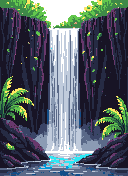
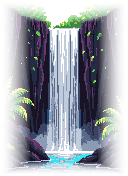
Vier Sachen aufgeräumt, die beim Durchschauen der Bilder auffielen
1. Deko im Vordergrund verschluckte die Helden. Baumstämme, Farne und
   Monstera-Blätter liegen absichtlich VOR den Figuren – wenn Jonas
   dahinterläuft, war er aber komplett weg. Solche Deko wird jetzt weich
   halb durchsichtig, solange jemand dahintersteht.

2. Der Schwarzwaldhof steckte bis zu den Fenstern im Boden und die Kinder
   liefen über sein Dach. Kulissen wandern langsamer als der Boden, also
   schieben sie sich über jede Bodenhöhe – ihr Fußpunkt muss darum über der
   höchsten Bodenkante liegen. standY 236 → 190.

3. Die Wasserfall-Kulisse (Cascatinha) hing als hartes dunkles Rechteck im
   Wald – ihr Bild hatte gar keinen freigestellten Rand. Neues Werkzeug
   tools/rand-weich.mjs blendet die Ränder weich aus.

4. Die Tastenzeile unten blendet nach 15 Sekunden weg, statt für immer im
   Gras zu liegen.

Claude-Session: https://claude.ai/code/session_015V1NJyATdJKNAqRRoQ2KE5

diff --git a/src/scenes/GameScene.js b/src/scenes/GameScene.js
@@ -242,6 +242,7 @@ export default class GameScene extends Phaser.Scene {
     // Deko: nur Bilder, keine Physik. Hinter den Figuren (Tiefe 2) oder davor (Tiefe 15).
     // haengend = Ankerpunkt oben; glow = pulsiert leicht; anim = Spritesheet-Animation
     this.glowing = []
+    this.vorneDeko = []                 // Deko VOR den Figuren – wird durchsichtig, wenn jemand dahintersteht
     for (const o of objects.filter((o) => o.type === 'deko')) {
       const key = 'deko-' + o.name
       if (!this.textures.exists(key)) { console.warn('Unbekannte Deko:', o.name); continue }
@@ -250,7 +251,8 @@ export default class GameScene extends Phaser.Scene {
       const img = d.anim ? this.add.sprite(o.x, o.y, key).play(key) : this.add.image(o.x, o.y, key)
       img.setOrigin(0.5, d.haengend ? 0 : 1).setDepth(p.vorne ? 15 : 2).setFlipX(!!p.spiegeln)
       if (!d.haengend) { img.y += 2; if (img.width >= 20) this.addShadow(img, Math.min(30, img.width * 0.8), false).setPosition(img.x, img.y - 1) }
-      if (d.glow) this.glowing.push(img)
+      if (d.glow) { img.istGlow = true; this.glowing.push(img) }
+      if (p.vorne) { img.durchsicht = 1; this.vorneDeko.push(img) }
     }
 
     // Tiere: friedliche Waldbewohner – sitzen, gucken, hüpfen ab und zu ein Stück
@@ -327,7 +329,12 @@ export default class GameScene extends Phaser.Scene {
       this.abilityBar = this.add.rectangle(232, 30, 20, 3, P.eisBlau).setOrigin(0, 0.5).setScrollFactor(0).setDepth(101)
       this.add.text(232, 18, 'E', { ...hudStyle, fontSize: '9px', color: '#c0cbdc' }).setScrollFactor(0).setDepth(100)
     }
-    if (!isTouch) this.add.text(GAME.width / 2, GAME.height - 3, 'Pfeile · Leer Sprung · X Schlag · E Fähigkeit · Tab Wechsel · C Komm · M Musik · P Pause', { fontFamily: 'monospace', fontSize: '7px', color: '#c0cbdc', stroke: '#181425', strokeThickness: 2 }).setOrigin(0.5, 1).setScrollFactor(0).setDepth(100).setAlpha(0.7)
+    // Tastenhilfe: am Anfang gut sichtbar, nach 15 Sekunden blendet sie weg,
+    // damit sie nicht dauernd im Wald herumliegt.
+    if (!isTouch) {
+      const hilfe = this.add.text(GAME.width / 2, GAME.height - 3, 'Pfeile · Leer Sprung · X Schlag · E Fähigkeit · Tab Wechsel · C Komm · M Musik · P Pause', { fontFamily: 'monospace', fontSize: '7px', color: '#c0cbdc', stroke: '#181425', strokeThickness: 2 }).setOrigin(0.5, 1).setScrollFactor(0).setDepth(100).setAlpha(0.7)
+      this.tweens.add({ targets: hilfe, alpha: 0, delay: 15000, duration: 1500, onComplete: () => hilfe.destroy() })
+    }
     this.updateNameText()
 
     const pauseFont = this.textures.exists('panel') && document.fonts?.check?.(`8px "${UI.fontFamily}"`) ? UI.fontFamily : 'monospace'
@@ -391,7 +398,16 @@ export default class GameScene extends Phaser.Scene {
     // 4c. Schatten, Tiere und leuchtende Deko
     this.updateShadows()
     this.updateTiere(time)
-    for (const g of this.glowing) g.setAlpha(0.85 + Math.sin(time / 300 + g.x) * 0.15)
+    // Deko im Vordergrund wird durchsichtig, sobald ein Held dahintersteht –
+    // sonst verschwinden Jonas und Leonel hinter Baumstämmen und Büschen.
+    for (const d of this.vorneDeko) {
+      const b = d.getBounds()
+      const dahinter = Phaser.Geom.Rectangle.Overlaps(b, this.active.getBounds())
+        || Phaser.Geom.Rectangle.Overlaps(b, this.companion.getBounds())
+      d.durchsicht += ((dahinter ? 0.5 : 1) - d.durchsicht) * 0.18      // weich überblenden
+      if (!d.istGlow) d.setAlpha(d.durchsicht)
+    }
+    for (const g of this.glowing) g.setAlpha((0.85 + Math.sin(time / 300 + g.x) * 0.15) * (g.durchsicht ?? 1))
 
     // 5. Gegner laufen, Schläge treffen, Rätsel prüfen
     for (const e of this.enemies) e.update(time, this.groundLayer, [this.jonas, this.leonel])

diff --git a/src/config.js b/src/config.js
@@ -385,7 +385,7 @@ export const INTROS = {
 //  standY = auf welcher Höhe die Kulisse steht. Weit entferntes gehört an den
 //  Horizont (kleinere Zahl), Nahes auf die Bodenlinie (240).
 export const KULISSEN = {
-  schwarzwaldhof: { file: 'assets/bg/kulisse_schwarzwaldhof.png', standY: 236 },
+  schwarzwaldhof: { file: 'assets/bg/kulisse_schwarzwaldhof.png', standY: 190 },
   schauinsland:   { file: 'assets/bg/kulisse_schauinsland.png', standY: 200 },
   titisee:        { file: 'assets/bg/kulisse_titisee.png', standY: 205 },
   muenster:       { file: 'assets/bg/kulisse_muenster.png', standY: 190 },

diff --git a/CLAUDE.md b/CLAUDE.md
@@ -80,7 +80,13 @@ Entscheidungen so, dass Kinder mitlesen können.
 - Deko sind Tiled-Objekte vom Typ `deko` ohne Physik (`DEKO` in config: haengend/glow/anim), `vorne=true` = vor den Figuren;
   Tiere (`tier`) sind lebendige Deko (hüpfen, flattern); Stein-Material: gids ab 17 im selben Layer `Boden`
 - Kulissen (`kulisse`-Objekte, `KULISSEN` in config): große Hintergrundbilder mit eigener Parallax-Tiefe
-  (`tiefe` 0.15–0.8), x wird umgerechnet: bild.x = x·tiefe + 240·(1−tiefe); Intro = Folien `INTRO` (Bild + Sätze)
+  (`tiefe` 0.15–0.8), x wird umgerechnet: bild.x = x·tiefe + 240·(1−tiefe); Intro = Folien `INTRO` (Bild + Sätze).
+  Weil Kulissen langsamer wandern als der Boden, schieben sie sich im Lauf des Levels über JEDE Bodenhöhe.
+  Darum muss `standY` knapp über der höchsten Bodenkante liegen, die vor der Kulisse vorkommt – sonst versinkt
+  sie im Hügel (Schwarzwaldhof steckte bis zum Fenster im Boden). Und Kulissen brauchen freigestellte Ränder:
+  ein rechteckiges Bild klebt sonst als Kachel im Wald (`node tools/rand-weich.mjs <ein> <aus> [l r o u]`
+  blendet die Ränder weich aus)
+- Deko mit `vorne=true` wird automatisch halb durchsichtig, sobald ein Held dahintersteht (`vorneDeko` in GameScene)
 - Schrift "Waldschrift" (TTF, FontFace in BootScene), Holz-Panel als NineSlice fürs HUD; PixelLab-Abo: 2000/Monat
 - Vier Wälder: Schwarzwald (fertig), Floresta da Tijuca (fertig), Lorbeerwald La Palma, Plänterwald.
   Jeder Wald steht in `FORESTS` (config.js) mit Level, Kacheln, Hintergrund, Musik, Schlusssatz und `weiter`.
